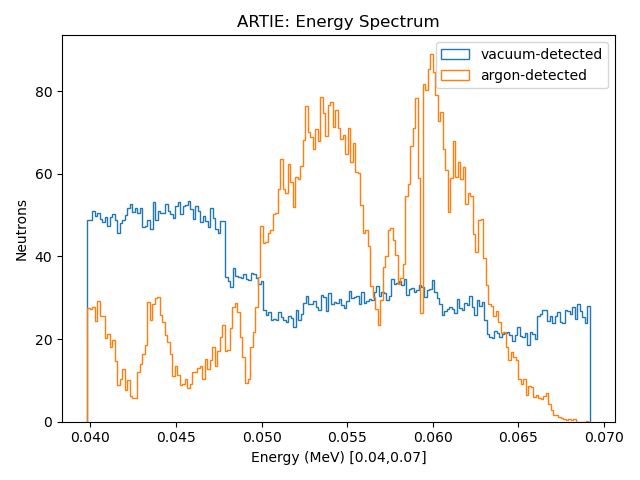
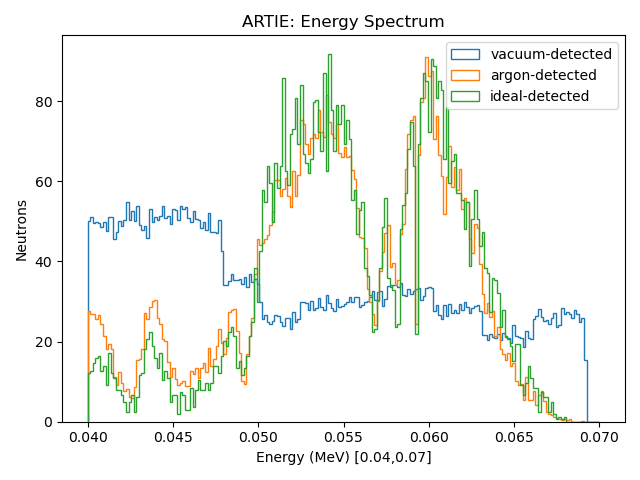
some changes

diff --git a/analysis/analysis.py b/analysis/analysis.py
@@ -180,18 +180,46 @@ class ArtieAnalysis:
             energy_all = self.artie_data[dataset].variables['gen_energy'][:max_events]
             energy_target = energy_all[self.artie_data[dataset].target_mask]
             if plot_type == 'all' or plot_type == 'both':
-                axs.hist(energy_all, bins=num_bins, histtype='step', label=dataset+'-produced', density=True)
+                axs.hist(
+                    energy_all, 
+                    bins=num_bins, 
+                    range=[energy_min, energy_max], 
+                    histtype='step', 
+                    label=dataset+'-produced', 
+                    density=True
+                )
             if plot_type == 'target' or plot_type == 'both':
-                axs.hist(energy_target, bins=num_bins, histtype='step', label=dataset+'-detected', density=True)
+                axs.hist(
+                    energy_target, 
+                    bins=num_bins, 
+                    range=[energy_min, energy_max], 
+                    histtype='step', 
+                    label=dataset+'-detected', 
+                    density=True
+                )
         else:
             for item in dataset:
                 self.check_for_dataset(item)
                 energy_all = self.artie_data[item].variables['gen_energy'][:max_events]
                 energy_target = energy_all[self.artie_data[item].target_mask]
                 if plot_type == 'all' or plot_type == 'both':
-                    axs.hist(energy_all, bins=num_bins, histtype='step', label=item+'-produced', density=True)
+                    axs.hist(
+                        energy_all, 
+                        bins=num_bins, 
+                        range=[energy_min, energy_max], 
+                        histtype='step', 
+                        label=item+'-produced', 
+                        density=True
+                    )
                 if plot_type == 'target' or plot_type == 'both':
-                    axs.hist(energy_target, bins=num_bins, histtype='step', label=item+'-detected', density=True)
+                    axs.hist(
+                        energy_target, 
+                        bins=num_bins, 
+                        range=[energy_min, energy_max], 
+                        histtype='step', 
+                        label=item+'-detected', 
+                        density=True
+                    )
         axs.set_xlabel(f"Energy (MeV) [{energy_min},{energy_max}]")
         axs.set_ylabel("Neutrons")
         axs.set_title(title)
@@ -220,8 +248,16 @@ class ArtieAnalysis:
             self.check_for_dataset(dataset)
             energy_all = self.artie_data[dataset].variables['gen_energy'][:max_events]
             energy_target = energy_all[self.artie_data[dataset].target_mask]
-            hall, edges = np.histogram(energy_all, bins=num_bins,range=[energy_min, energy_max])
-            hpss, edges = np.histogram(energy_target, bins=num_bins,range=[energy_min, energy_max])
+            hall, edges = np.histogram(
+                energy_all, 
+                bins=num_bins, 
+                range=[energy_min, energy_max]
+            )
+            hpss, edges = np.histogram(
+                energy_target, 
+                bins=num_bins, 
+                range=[energy_min, energy_max]
+            )
             cbins = (edges[1:] + edges[:-1])/2.0
             trans_ratio = np.zeros(cbins.size)
             trans_mask = (hall > 0)
@@ -233,8 +269,16 @@ class ArtieAnalysis:
                 self.check_for_dataset(item)
                 energy_all = self.artie_data[item].variables['gen_energy'][:max_events]
                 energy_target = energy_all[self.artie_data[item].target_mask]
-                hall, edges = np.histogram(energy_all, bins=num_bins,range=[energy_min, energy_max])
-                hpss, edges = np.histogram(energy_target, bins=num_bins,range=[energy_min, energy_max])
+                hall, edges = np.histogram(
+                    energy_all, 
+                    bins=num_bins,
+                    range=[energy_min, energy_max]
+                )
+                hpss, edges = np.histogram(
+                    energy_target, 
+                    bins=num_bins,
+                    range=[energy_min, energy_max]
+                )
                 cbins = (edges[1:] + edges[:-1])/2.0
                 trans_ratio = np.zeros(cbins.size)
                 trans_mask = (hall > 0)
@@ -268,7 +312,7 @@ class ArtieAnalysis:
             tof_target = tof_all[self.artie_data[dataset].target_mask]
             energy_target = energy_all[self.artie_data[dataset].target_mask]
             # generate fake tof to compare
-            tof_compare = np.linspace(min(tof_target),max(tof_target), num_bins)
+            tof_compare = np.linspace(min(tof_target), max(tof_target), num_bins)
             tof_indices = np.digitize(tof_target, tof_compare)
             energy_target_bins = [[] for ii in range(num_bins)]
             for ii in range(len(energy_target)):
@@ -291,7 +335,7 @@ class ArtieAnalysis:
                 tof_target = tof_all[self.artie_data[item].target_mask]
                 energy_target = energy_all[self.artie_data[item].target_mask]
                 # generate fake tof to compare
-                tof_compare = np.linspace(min(tof_target),max(tof_target), num_bins)
+                tof_compare = np.linspace(min(tof_target), max(tof_target), num_bins)
                 tof_indices = np.digitize(tof_target, tof_compare)
                 energy_target_bins = [[] for ii in range(num_bins)]
                 for ii in range(len(energy_target)):
@@ -387,15 +431,25 @@ if __name__ == "__main__":
         input_file="../build/argon.root",
         variables=simulation_variables,
     )
+    ideal_data = ArtieData(
+        input_file="../build/ideal.root",
+        variables=simulation_variables
+    )
+    short_data = ArtieData(
+        input_file="../build/short.root",
+        variables=simulation_variables
+    )
     data_dict = {
         'vacuum':   vacuum_data,
         'argon':    argon_data,
+        'ideal':    ideal_data,
+        'short':    short_data,
     }
 
     analysis = ArtieAnalysis(data_dict)
-
+    
     analysis.plot_energy_spectrum(
-        dataset=['vacuum','argon'],
+        dataset=['vacuum','argon','ideal'],
         plot_type='target',
         save='example_energy_spectrum'
     )
